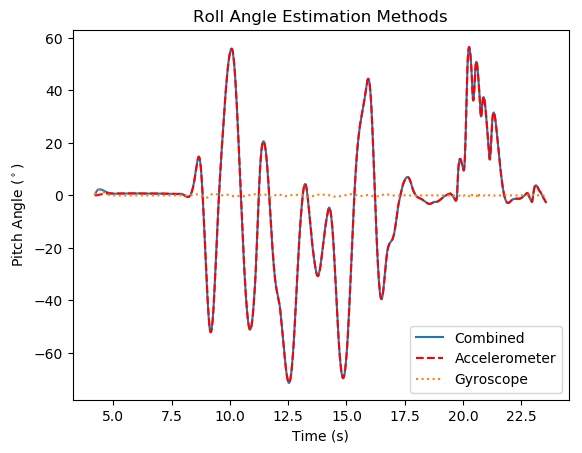
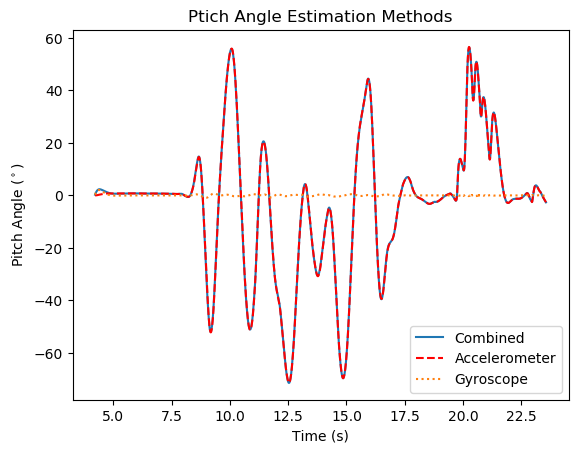
ckpt done

Changed region(s): [[0.3093, 0.0, 0.7732, 0.0618]]

diff --git a/Mechatronics_ME457/HW4/LAB_4/analysis.py b/Mechatronics_ME457/HW4/LAB_4/analysis.py
@@ -29,19 +29,19 @@ d_time /= 1000000
 # plt.savefig('acc_filt_unfilt.png',bbox_inches = 'tight')
 # plt.show()
 
-# plt.plot(d_time, f_comb, label='Combined')
-# plt.plot(d_time, f_acc, '--', label='Accelerometer', color='r')
-# plt.plot(d_time, f_gyro, ':', label='Gyroscope')
-# plt.title('Roll Angle Estimation Methods')
-# plt.xlabel('Time (s)')
-# plt.ylabel(r'Pitch Angle ($^\circ$)')
-# plt.legend()
-# plt.savefig('filt_est_methods.png',bbox_inches = 'tight')
-# plt.show()
-
-plt.plot(d_time, f_gyro, label='Filtered Data')
-plt.title('Gyroscope Filtered Data Only')
+plt.plot(d_time, f_comb, label='Combined')
+plt.plot(d_time, f_acc, '--', label='Accelerometer', color='r')
+plt.plot(d_time, f_gyro, ':', label='Gyroscope')
+plt.title('Ptich Angle Estimation Methods')
 plt.xlabel('Time (s)')
 plt.ylabel(r'Pitch Angle ($^\circ$)')
-plt.savefig('gyro_filt.png',bbox_inches = 'tight')
+plt.legend()
+plt.savefig('filt_est_methods.png',bbox_inches = 'tight')
 plt.show()
+
+# plt.plot(d_time, f_gyro, label='Filtered Data')
+# plt.title('Gyroscope Filtered Data Only')
+# plt.xlabel('Time (s)')
+# plt.ylabel(r'Pitch Angle ($^\circ$)')
+# plt.savefig('gyro_filt.png',bbox_inches = 'tight')
+# plt.show()

diff --git a/Mechatronics_ME457/HW5/analysis.py b/Mechatronics_ME457/HW5/analysis.py
@@ -19,7 +19,7 @@ for file_name in os.listdir('.'):
             plt.plot(d_time, kpe, label=r'K$_p$e')
             plt.plot(d_time, kiei, label=r'K$_i e_i$')
             plt.plot(d_time, kded, label=r'K$_d e_d$')
-            plt.title(file_name)
+            plt.title('Gain Calibration')
             plt.xlabel('time (s)')
             plt.ylabel('error')
             plt.legend()
